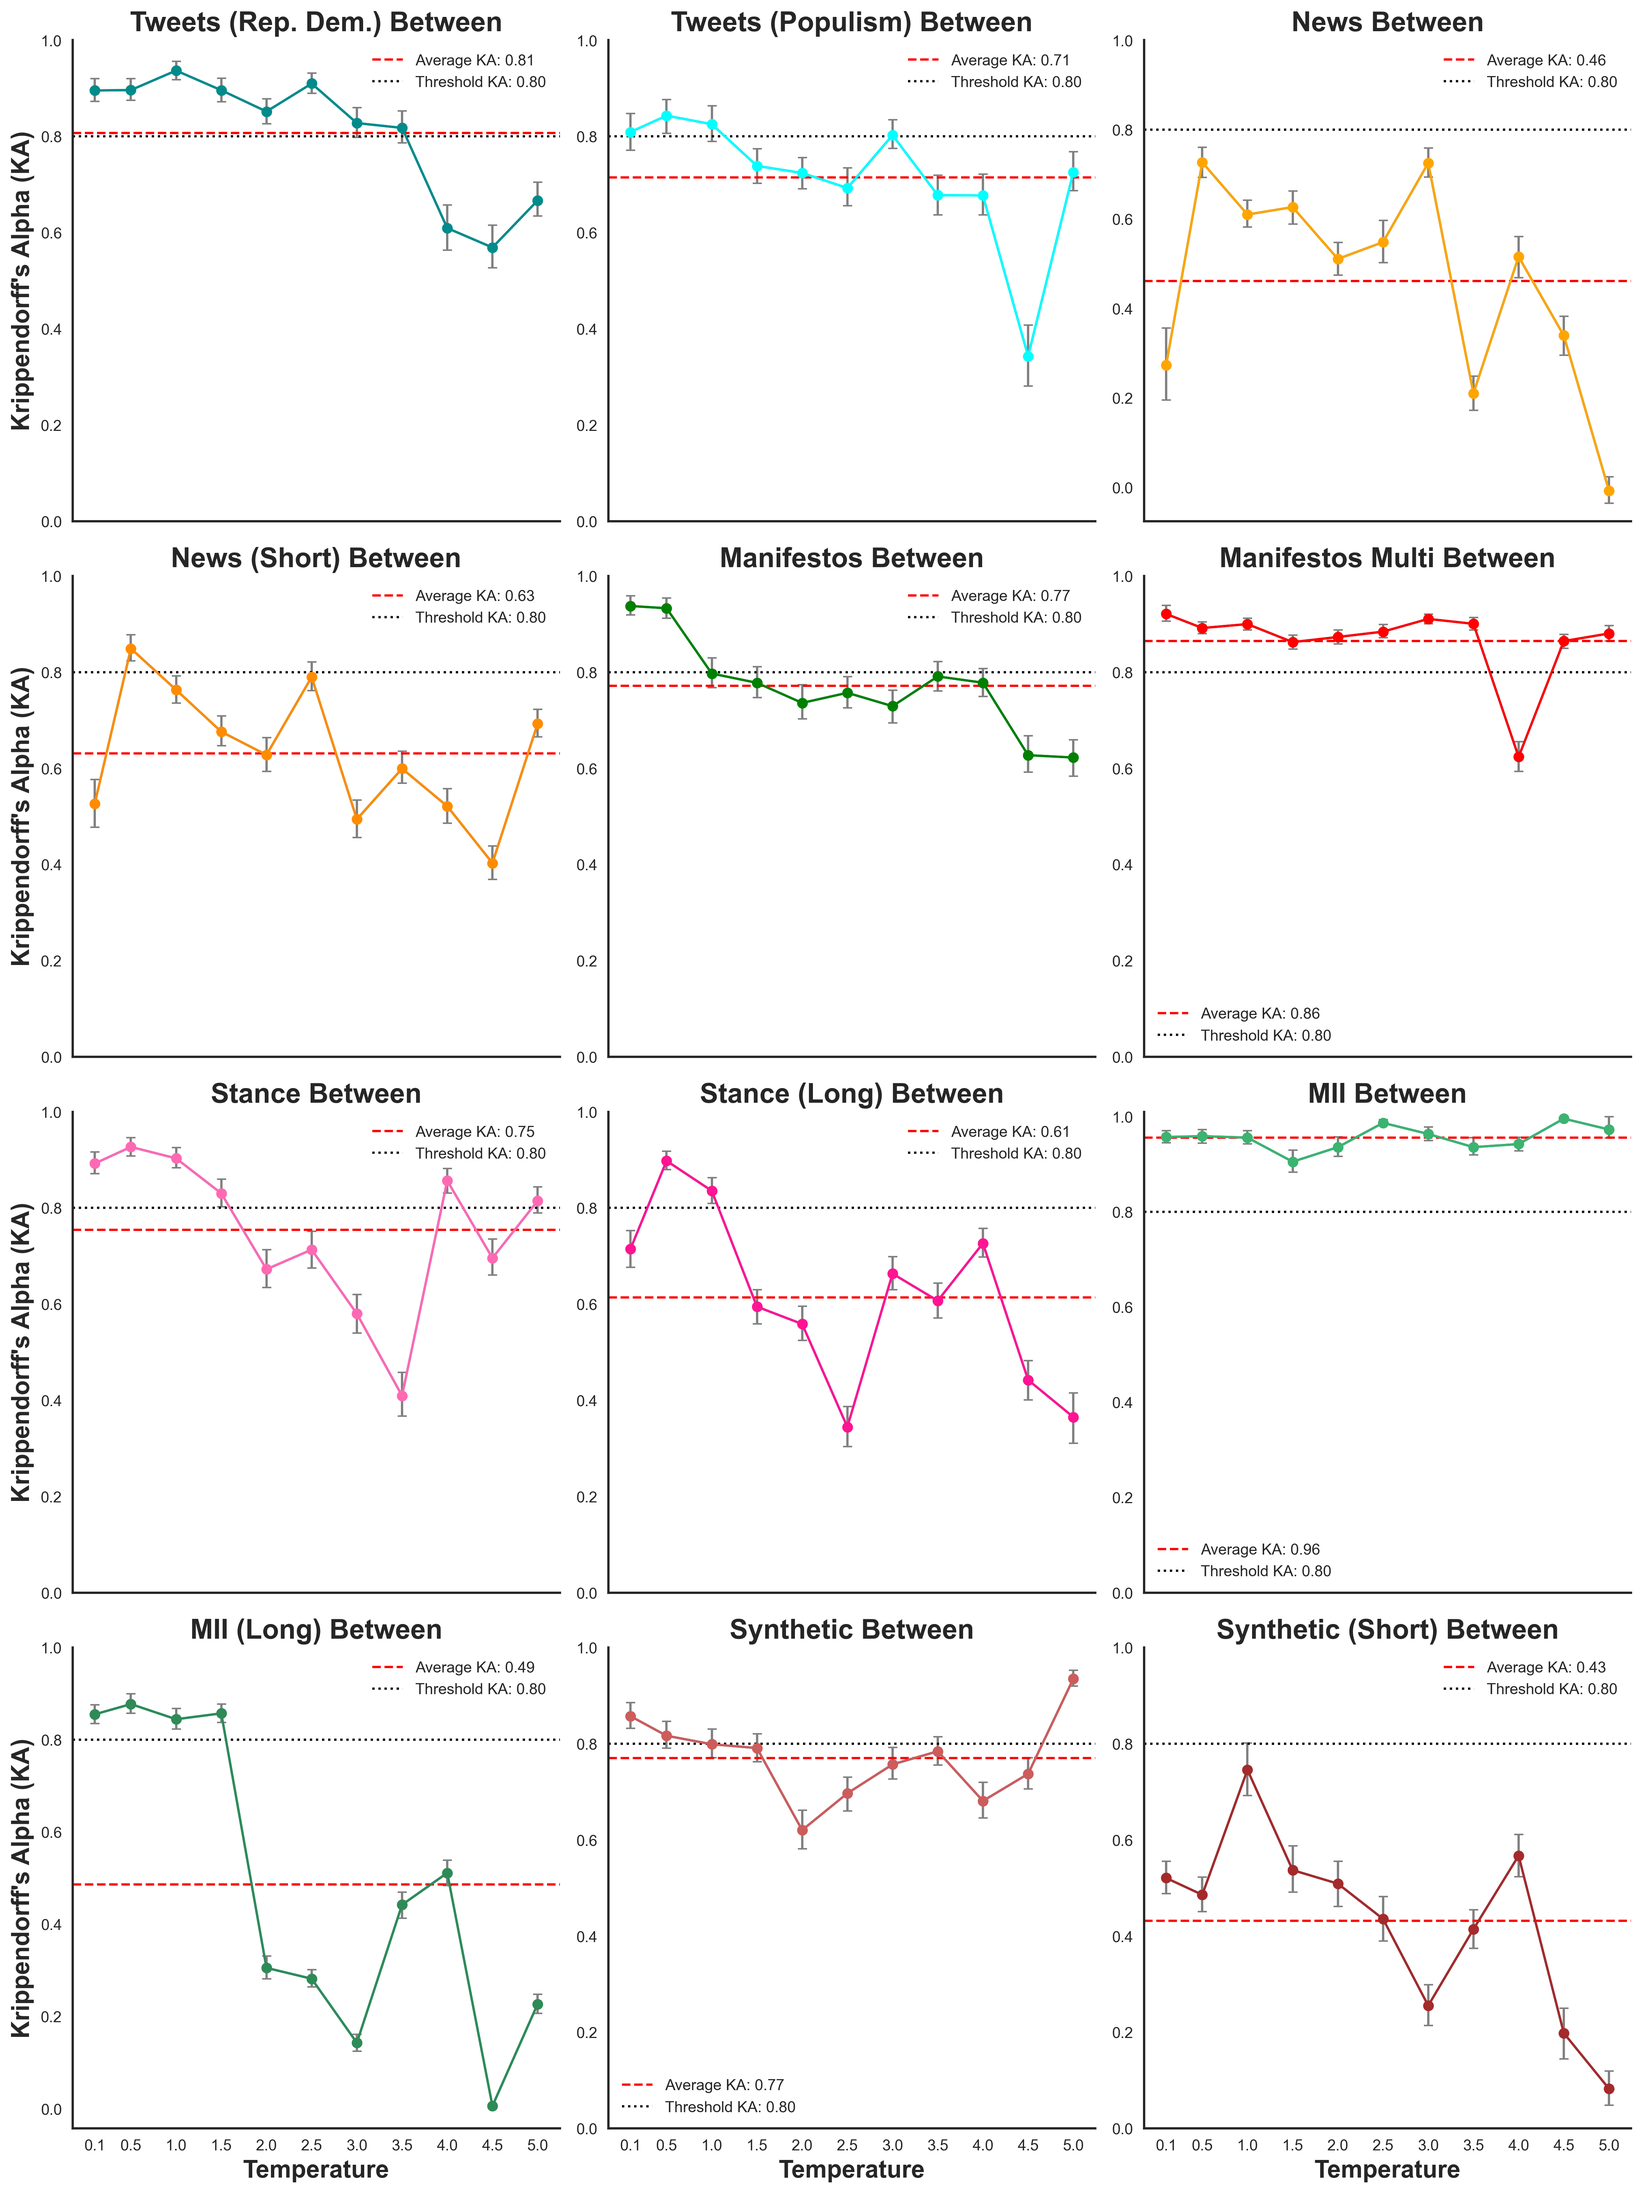
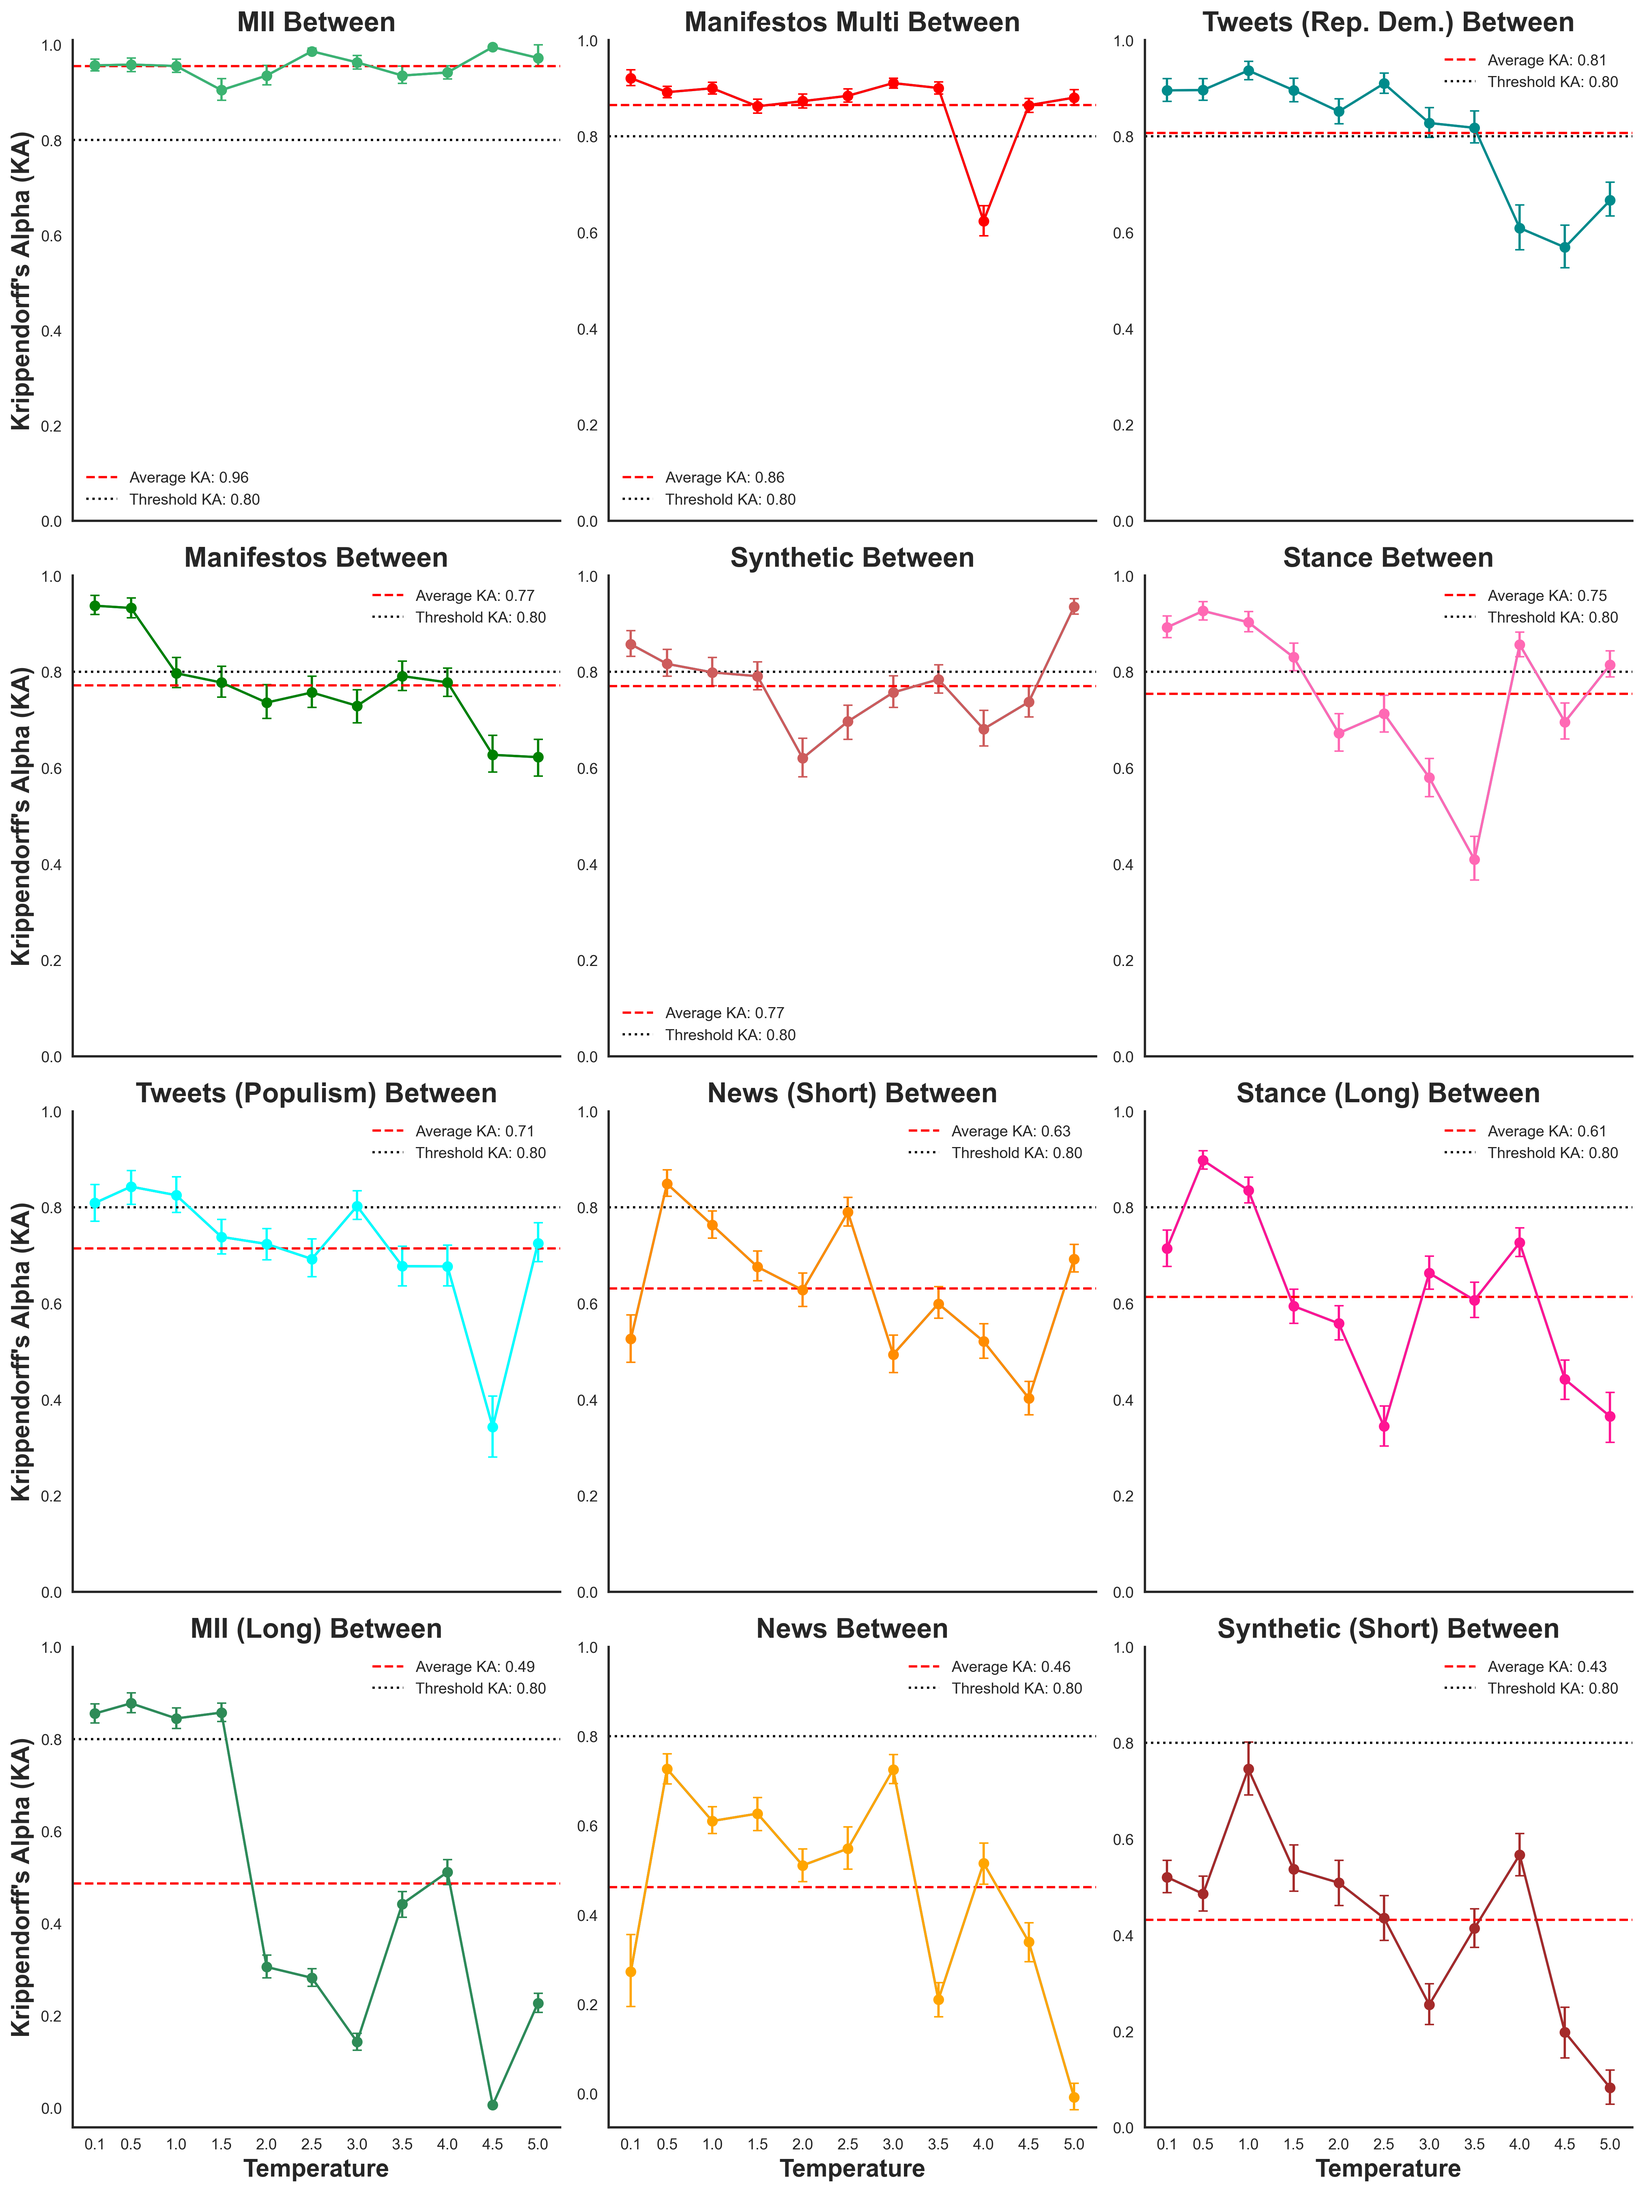
Update plots

diff --git a/11_plot_all.py b/11_plot_all.py
@@ -77,22 +77,23 @@ def combine_between_files(files):
         combined_data.append(annotated_data)
     return pd.concat(combined_data, ignore_index=True)
 
-def plot_combined_within(data, save_path=None):
+def plot_combined_within(data, order, save_path=None):
     # Set the style for a minimalistic look
     sns.set_style("white")
 
     # Create the FacetGrid
-    g = sns.FacetGrid(data, col="label", col_wrap=3, height=5, aspect=1, sharey=False, col_order=list(within_files.keys()))
+    g = sns.FacetGrid(data, col="label", col_wrap=3, height=5, aspect=1, sharey=False, col_order=order)
 
     # Map the lineplot to the FacetGrid
     g.map_dataframe(sns.lineplot, x='iteration', y='ka_mean', marker='o', linewidth=1.5)
 
     # Iterate over each axis to add the error bars and other customizations
-    for ax, label in zip(g.axes.flatten(), within_files.keys()):
+    for ax, label in zip(g.axes.flatten(), order):
         subset = data[data['label'] == label]
         ci_lowers = subset['ka_mean'] - subset['ka_lower']
         ci_uppers = subset['ka_upper'] - subset['ka_mean']
-        ax.errorbar(subset['iteration'], subset['ka_mean'], yerr=[ci_lowers, ci_uppers], fmt='o', linestyle='-', color=color_palette[label], ecolor='gray', capsize=3)
+        color = color_palette[label]
+        ax.errorbar(subset['iteration'], subset['ka_mean'], yerr=[ci_lowers, ci_uppers], fmt='o', linestyle='-', color=color, ecolor=color, capsize=3)
         avg_ka = subset['ka_mean'].mean()
         ax.axhline(y=avg_ka, color='red', linestyle='--', linewidth=1.5, label=f'Average KA: {avg_ka:.2f}')
         ax.axhline(y=0.80, color='black', linestyle=':', linewidth=1.5, label='Threshold KA: 0.80')
@@ -114,7 +115,7 @@ def plot_combined_within(data, save_path=None):
         print(f"Plot saved to {save_path}")
     plt.show()
 
-def plot_combined_between(data, save_path=None):
+def plot_combined_between(data, order, save_path=None):
     # Calculate the average KA score for each temperature and label
     average_ka_per_temp = data.groupby(['temperature', 'label']).agg({
         'ka_mean': 'mean',
@@ -126,17 +127,18 @@ def plot_combined_between(data, save_path=None):
     sns.set_style("white")
 
     # Create the FacetGrid
-    g = sns.FacetGrid(average_ka_per_temp, col="label", col_wrap=3, height=5, aspect=1, sharey=False, col_order=list(between_files.keys()))
+    g = sns.FacetGrid(average_ka_per_temp, col="label", col_wrap=3, height=5, aspect=1, sharey=False, col_order=order)
 
     # Map the lineplot to the FacetGrid
     g.map_dataframe(sns.lineplot, x='temperature', y='ka_mean', marker='o', linewidth=1.5)
 
     # Iterate over each axis to add the error bars and other customizations
-    for ax, label in zip(g.axes.flatten(), between_files.keys()):
+    for ax, label in zip(g.axes.flatten(), order):
         subset = average_ka_per_temp[average_ka_per_temp['label'] == label]
         ci_lowers = subset['ka_mean'] - subset['ka_lower']
         ci_uppers = subset['ka_upper'] - subset['ka_mean']
-        ax.errorbar(subset['temperature'], subset['ka_mean'], yerr=[ci_lowers, ci_uppers], fmt='o', linestyle='-', color=color_palette[label], ecolor='gray', capsize=3)
+        color = color_palette[label]
+        ax.errorbar(subset['temperature'], subset['ka_mean'], yerr=[ci_lowers, ci_uppers], fmt='o', linestyle='-', color=color, ecolor=color, capsize=3)
         avg_ka = subset['ka_mean'].mean()
         ax.axhline(y=avg_ka, color='red', linestyle='--', linewidth=1.5, label=f'Average KA: {avg_ka:.2f}')
         ax.axhline(y=0.80, color='black', linestyle=':', linewidth=1.5, label='Threshold KA: 0.80')
@@ -158,10 +160,12 @@ def plot_combined_between(data, save_path=None):
         print(f"Plot saved to {save_path}")
     plt.show()
 
-# Combine and plot "within" datasets
+# Combine "within" datasets and order them by average KA
 combined_within_data = combine_within_files(within_files)
-plot_combined_within(combined_within_data, save_path="plots/combined_within.png")
+within_order = combined_within_data.groupby('label')['ka_mean'].mean().sort_values(ascending=False).index.tolist()
+plot_combined_within(combined_within_data, within_order, save_path="plots/combined_within.png")
 
-# Combine and plot "between" datasets
+# Combine "between" datasets and order them by average KA
 combined_between_data = combine_between_files(between_files)
-plot_combined_between(combined_between_data, save_path="plots/combined_between.png")
+between_order = combined_between_data.groupby('label')['ka_mean'].mean().sort_values(ascending=False).index.tolist()
+plot_combined_between(combined_between_data, between_order, save_path="plots/combined_between.png")
